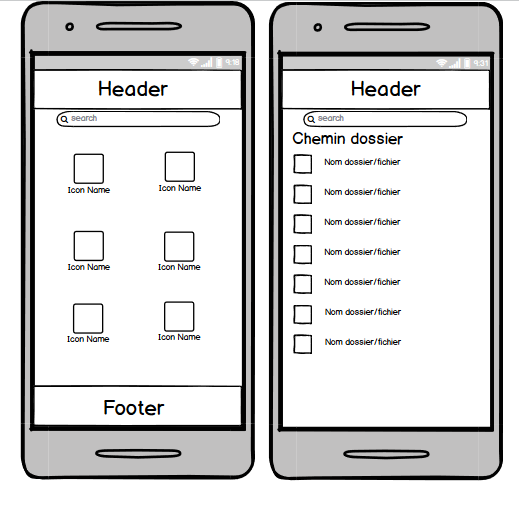
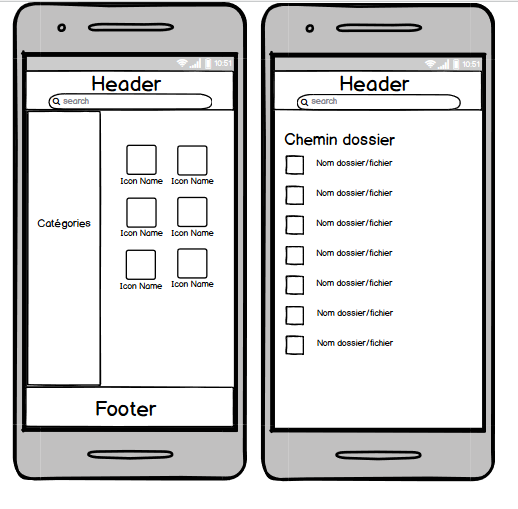
ajout Wireframe

Changed region(s): [[0.0, 0.0, 1.0, 0.9505], [0.3089, 0.5941, 0.4015, 0.6832]]

diff --git a/index.html b/index.html
@@ -4,9 +4,26 @@
     <meta charset="UTF-8">
     <meta name="viewport" content="width=device-width, initial-scale=1.0">
     <meta http-equiv="X-UA-Compatible" content="ie=edge">
-    <title>Document</title>
+    <title>Files-explorer</title>
+    <link rel="stylesheet" href="style.css">
+    <link rel="stylesheet" href="https://maxcdn.bootstrapcdn.com/bootstrap/4.0.0-beta.2/css/bootstrap.min.css" integrity="sha384-PsH8R72JQ3SOdhVi3uxftmaW6Vc51MKb0q5P2rRUpPvrszuE4W1povHYgTpBfshb" crossorigin="anonymous">
 </head>
 <body>
-    
+    <header>
+        <div class="container">
+            <input type="text" name="search" placeholder="Search.."> 
+        </div>
+    </header>
+    <div id="main">
+        <div class="container">
+
+        </div>
+        <div class="container">
+
+        </div>
+    </div>
+    <footer>
+
+    </footer>
 </body>
 </html>

diff --git a/style.css b/style.css
@@ -1,0 +1,8 @@
+input[type=text] {
+    width: 130px;
+    -webkit-transition: width 0.4s ease-in-out;
+    transition: width 0.4s ease-in-out;
+}
+input[type=text]:focus {
+    width: 30%;
+}
